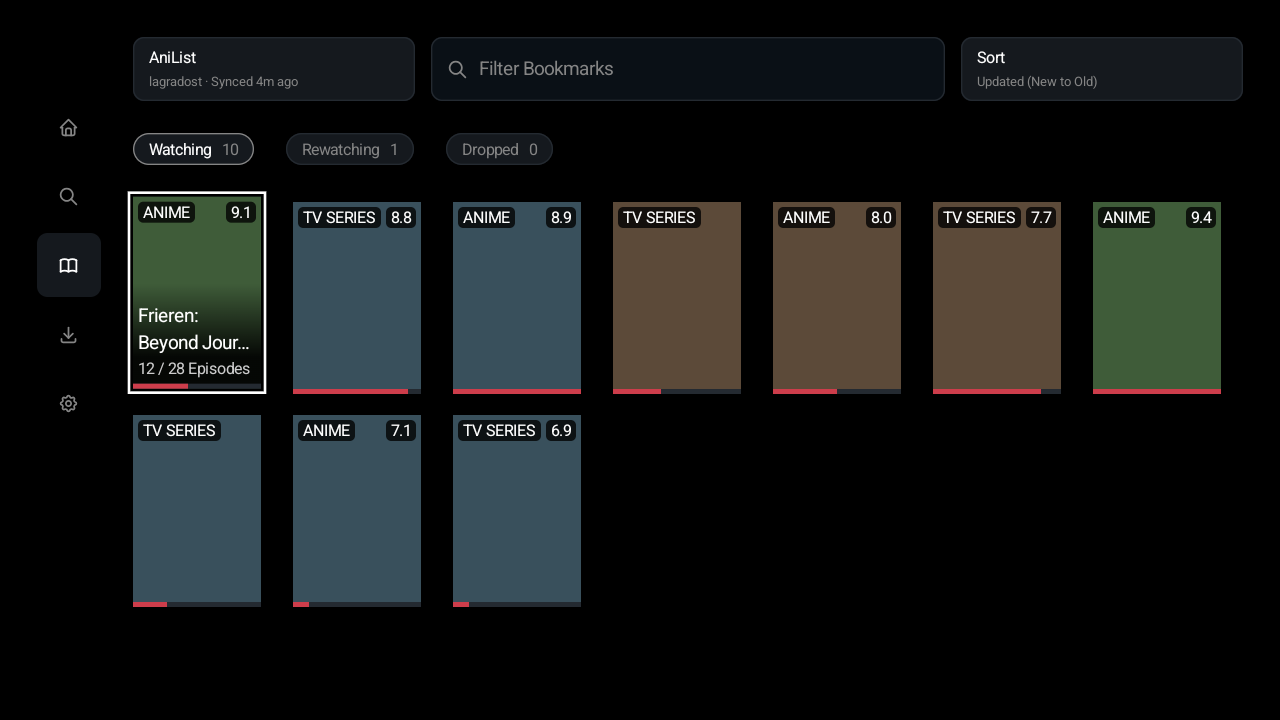
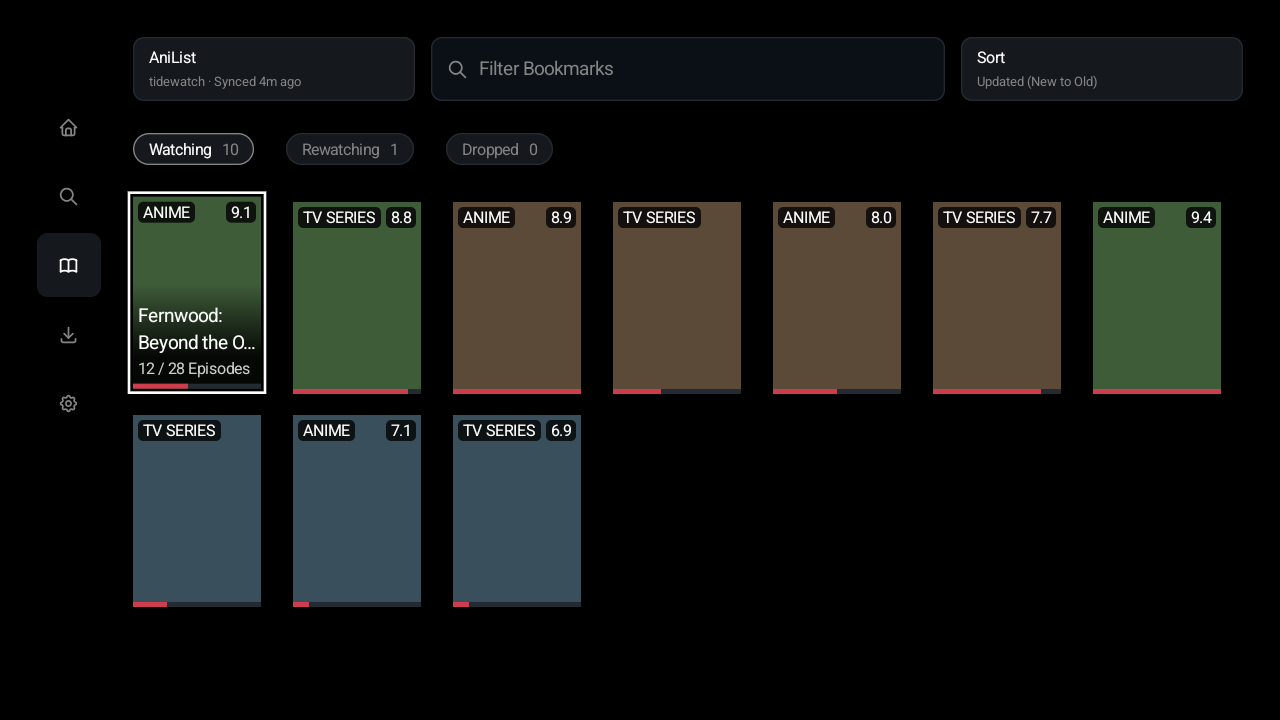
BUG-75: library device tests use made-up titles, sources and account
The library device tests named real shows, a real provider and a real
account. They now use made-up ones. Eight screenshots are re-recorded;
every diff was read and changes only the names and the placeholder
poster tint, which the test keys on title length.

Changed region(s): [[0.2188, 0.275, 0.4688, 0.55], [0.125, 0.0917, 0.25, 0.1222], [0.125, 0.4278, 0.1875, 0.4889]]

diff --git a/feature/library/src/androidDeviceTest/kotlin/com/lagradost/cloudstream4/feature/library/tv/LibrarySourcesTvDeviceTest.kt b/feature/library/src/androidDeviceTest/kotlin/com/lagradost/cloudstream4/feature/library/tv/LibrarySourcesTvDeviceTest.kt
@@ -228,7 +228,7 @@ class LibrarySourcesTvDeviceTest {
         showScreen()
         awaitText(ANILIST)
         // The time the host recorded, measured to the host's clock: four minutes.
-        awaitText("lagradost · Synced 4m ago")
+        awaitText("tidewatch · Synced 4m ago")
         focusProviderButton(ANILIST)
     }
 
@@ -373,7 +373,7 @@ class LibrarySourcesTvDeviceTest {
         sources.failing = false
         dpad.center()
         rule.waitUntil(WAIT_MS) { rule.onAllNodesWithText(CACHED).fetchSemanticsNodes().isEmpty() }
-        awaitText("lagradost · Synced 4m ago")
+        awaitText("tidewatch · Synced 4m ago")
         assertEquals(3, sources.reads.get())
     }
 
@@ -525,7 +525,7 @@ class LibrarySourcesTvDeviceTest {
         )
         val ShotPosters = listOf(0xFF39505C.toInt(), 0xFF5C4A39.toInt(), 0xFF3F5C39.toInt())
         val SyncedNames = listOf(
-            "Frieren: Beyond Journey's End", "Severance", "Vinland Saga", "The Long Dark", "Kingfisher", "Nine Lives",
+            "Fernwood: Beyond the Old Road", "Still Water", "Shoal Saga", "The Long Dark", "Kingfisher", "Nine Lives",
             "Paper Moons", "Grey Harbour", "Fathom", "Saltwater",
         )
         private val Counts = listOf(12 to 28, 9 to 10, 24 to 24, 3 to 8, 6 to 12, 11 to 13, 22 to 22, 7 to 26, 3 to 24, 1 to 8)
@@ -548,7 +548,7 @@ class LibrarySourcesTvDeviceTest {
 
     private class FakeStore : LibraryStore {
         override suspend fun titles() = listOf(
-            LibraryTitle(LibraryTitleId("id/Dune"), "Dune", LibraryBucket.Watching, keptAt = 1, providerName = "Filmxy"),
+            LibraryTitle(LibraryTitleId("id/Tide"), "Tide", LibraryBucket.Watching, keptAt = 1, providerName = "Source A"),
         )
         override suspend fun positions() = emptyList<WatchPosition>()
         override suspend fun remember(title: LibraryTitle) = Unit
@@ -566,7 +566,7 @@ class LibrarySourcesTvDeviceTest {
         override suspend fun sources() = listOf(
             // AniList keeps no release date here, so 5d has a disabled row to show.
             LibrarySource(
-                LibrarySourceId(ANILIST), ANILIST, account = "lagradost", syncedAt = SYNCED_AT,
+                LibrarySourceId(ANILIST), ANILIST, account = "tidewatch", syncedAt = SYNCED_AT,
                 sorts = setOf(LibrarySortCriterion.Updated, LibrarySortCriterion.Title, LibrarySortCriterion.Rating),
             ),
             LibrarySource(LibrarySourceId(LOCAL), LOCAL, local = true, titleCount = 308),

diff --git a/feature/library/src/androidDeviceTest/kotlin/com/lagradost/cloudstream4/feature/library/tv/LibraryScreenTvDeviceTest.kt b/feature/library/src/androidDeviceTest/kotlin/com/lagradost/cloudstream4/feature/library/tv/LibraryScreenTvDeviceTest.kt
@@ -264,8 +264,8 @@ class LibraryScreenTvDeviceTest {
     @Test
     fun theFilterNarrowsTheGridAndClearingItBringsTheCardsBack() {
         store.titles = listOf(
-            title("Blade Runner", LibraryBucket.Watching),
-            title("Dune", LibraryBucket.Watching),
+            title("Salt Road", LibraryBucket.Watching),
+            title("Tide", LibraryBucket.Watching),
         )
         showScreen()
 
@@ -378,14 +378,14 @@ class LibraryScreenTvDeviceTest {
         )
         val ShotPosters = listOf(0xFF39505C.toInt(), 0xFF5C4A39.toInt(), 0xFF3F5C39.toInt())
         private val ShotNames = listOf(
-            "Frieren: Beyond Journey's End", "Severance", "Blade Runner 2049", "The Long Dark", "Vinland Saga",
+            "Fernwood: Beyond the Old Road", "Still Water", "Salt Road II", "The Long Dark", "Shoal Saga",
             "Quiet Harbor", "Ashen Field", "Kingfisher", "Nine Lives", "The Final Cut", "Northern Line", "Paper Moons",
-            "Saltwater", "Dust and Iron", "Low Tide", "Grey Harbour", "The Warden", "Halcyon", "Summer Ghost", "Redwood",
+            "Saltwater", "Dust and Iron", "Low Tide", "Grey Harbour", "The Warden", "Halcyon", "Summer Gull", "Redwood",
         )
         private val ShotTypes = listOf("ANIME", "TV SERIES", "MOVIE")
         val ShotTitles = ShotNames.mapIndexed { index, name ->
             title(name, LibraryBucket.Watching, keptAt = 1000L - index).copy(typeLabel = ShotTypes[index % ShotTypes.size])
-        } + title("Arrival", LibraryBucket.Completed) + title("Dune", LibraryBucket.Favourites)
+        } + title("Arrival", LibraryBucket.Completed) + title("Tide", LibraryBucket.Favourites)
         /** Every third title part-watched, so the progress rule shows. */
         val ShotPositions = ShotTitles.filterIndexed { index, _ -> index % 3 == 0 }.mapIndexed { index, kept ->
             WatchPosition(kept.id, null, positionMillis = 600_000L + index * 300_000L, durationMillis = 3_000_000L, watchedAt = 1L)
@@ -396,7 +396,7 @@ class LibraryScreenTvDeviceTest {
             title = name,
             bucket = bucket,
             keptAt = keptAt,
-            providerName = "Filmxy",
+            providerName = "Source A",
         )
 
         /** Newest first, so `Title 0` is the first card. */
